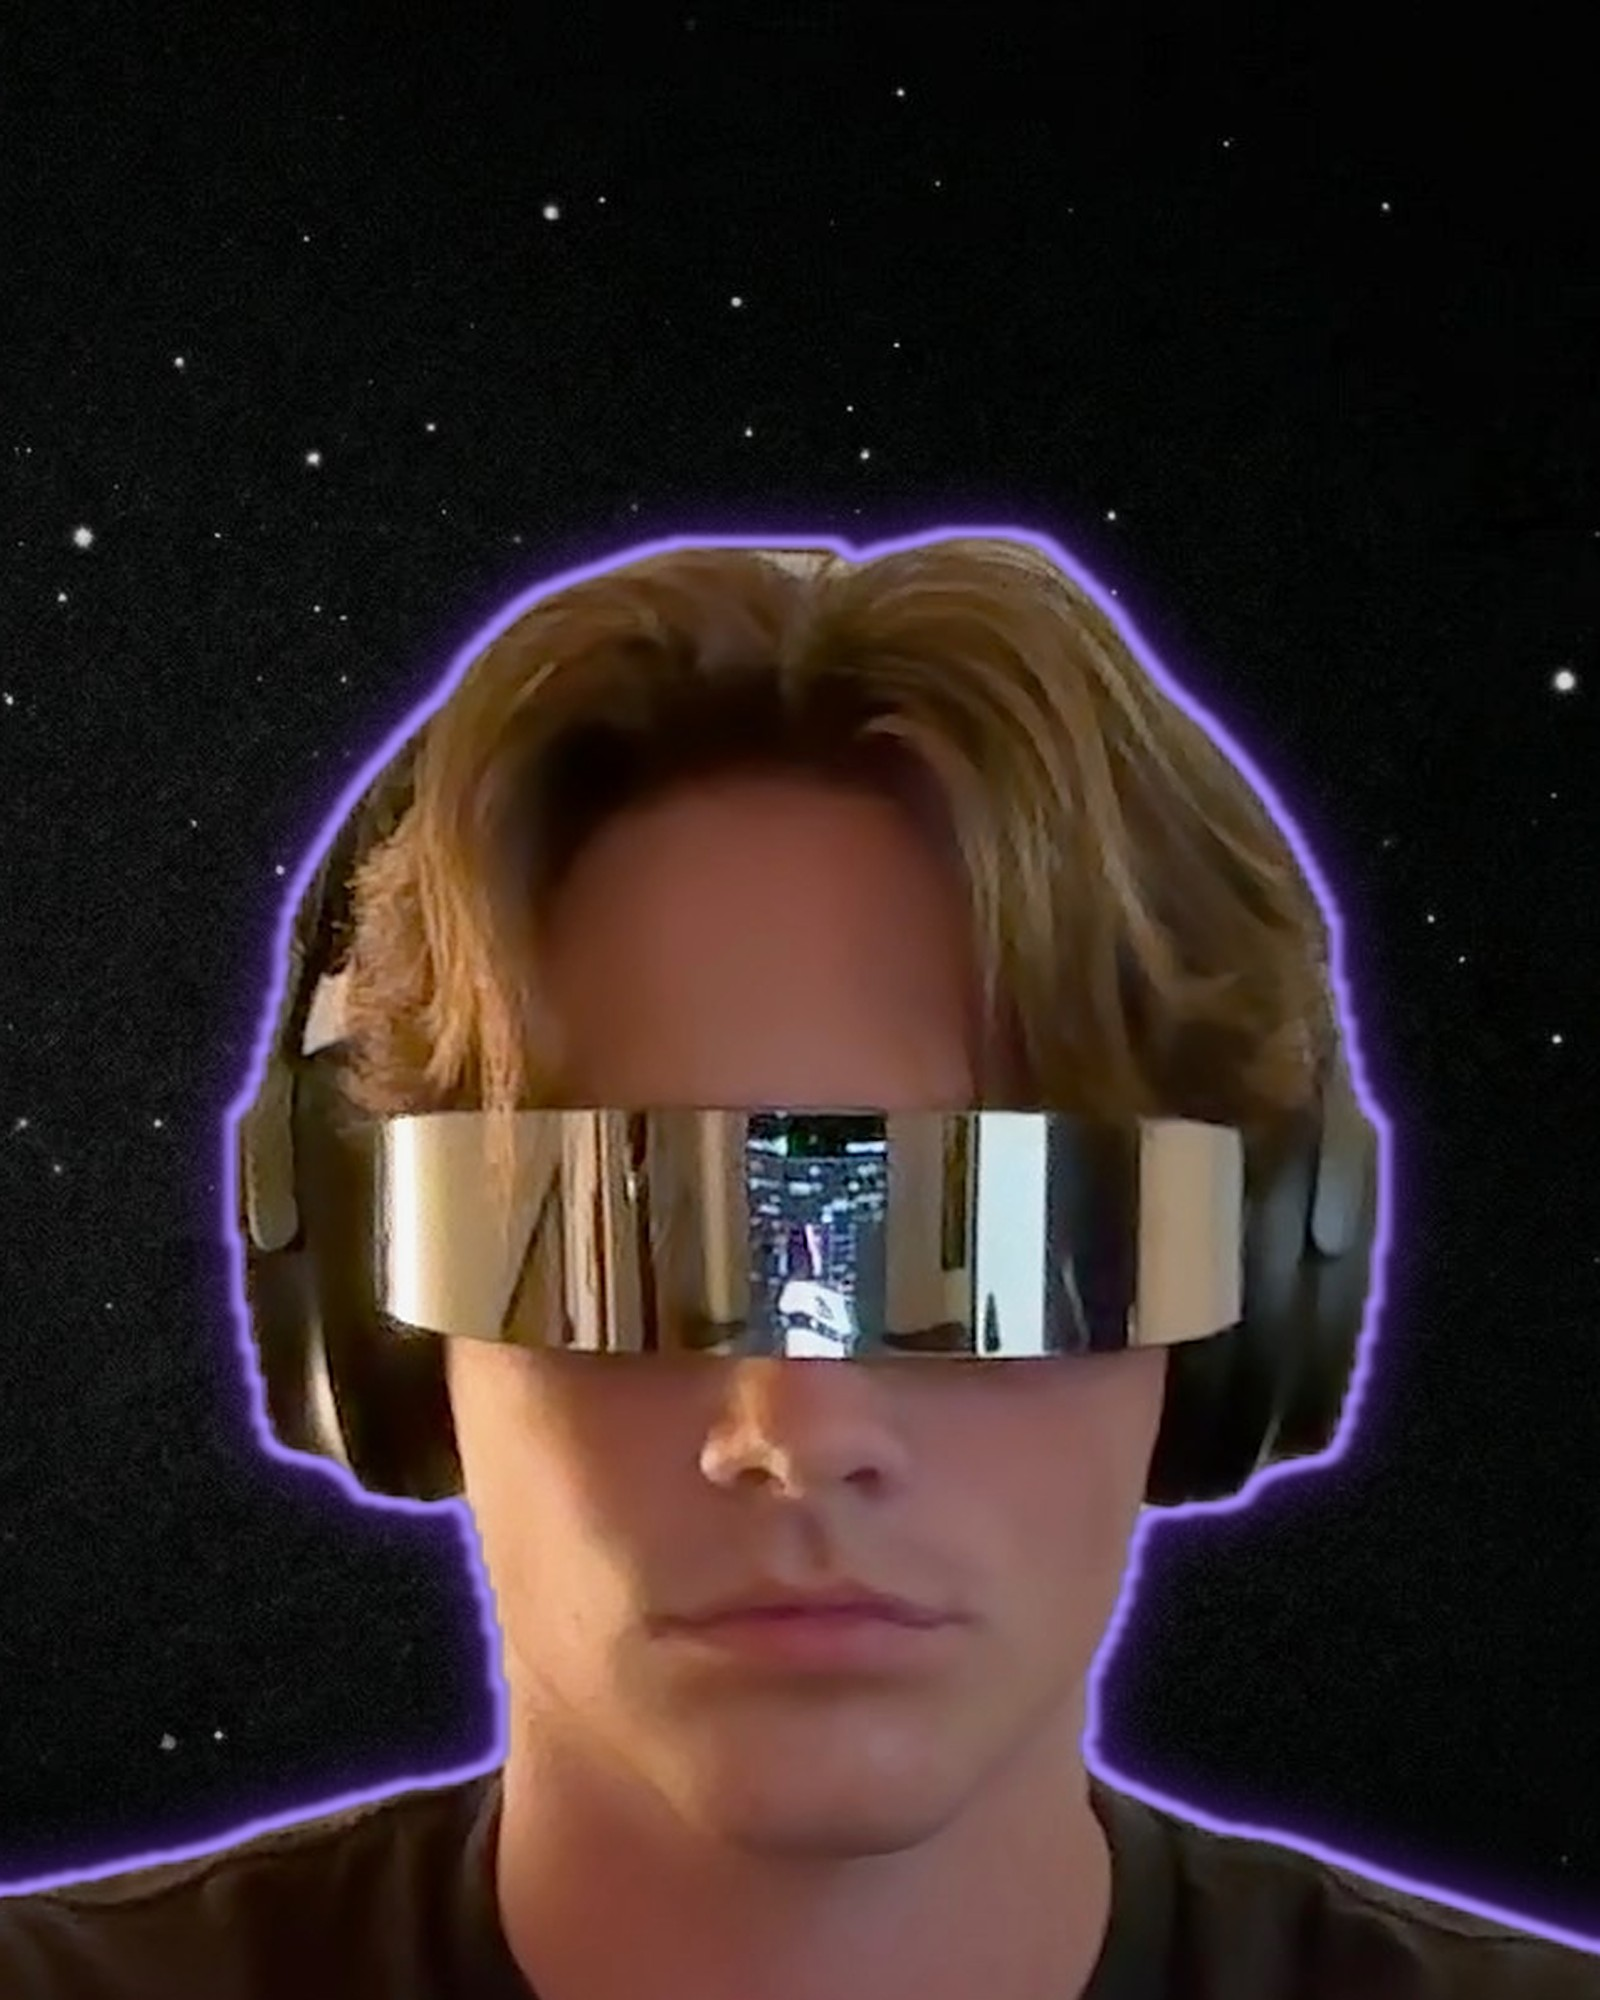
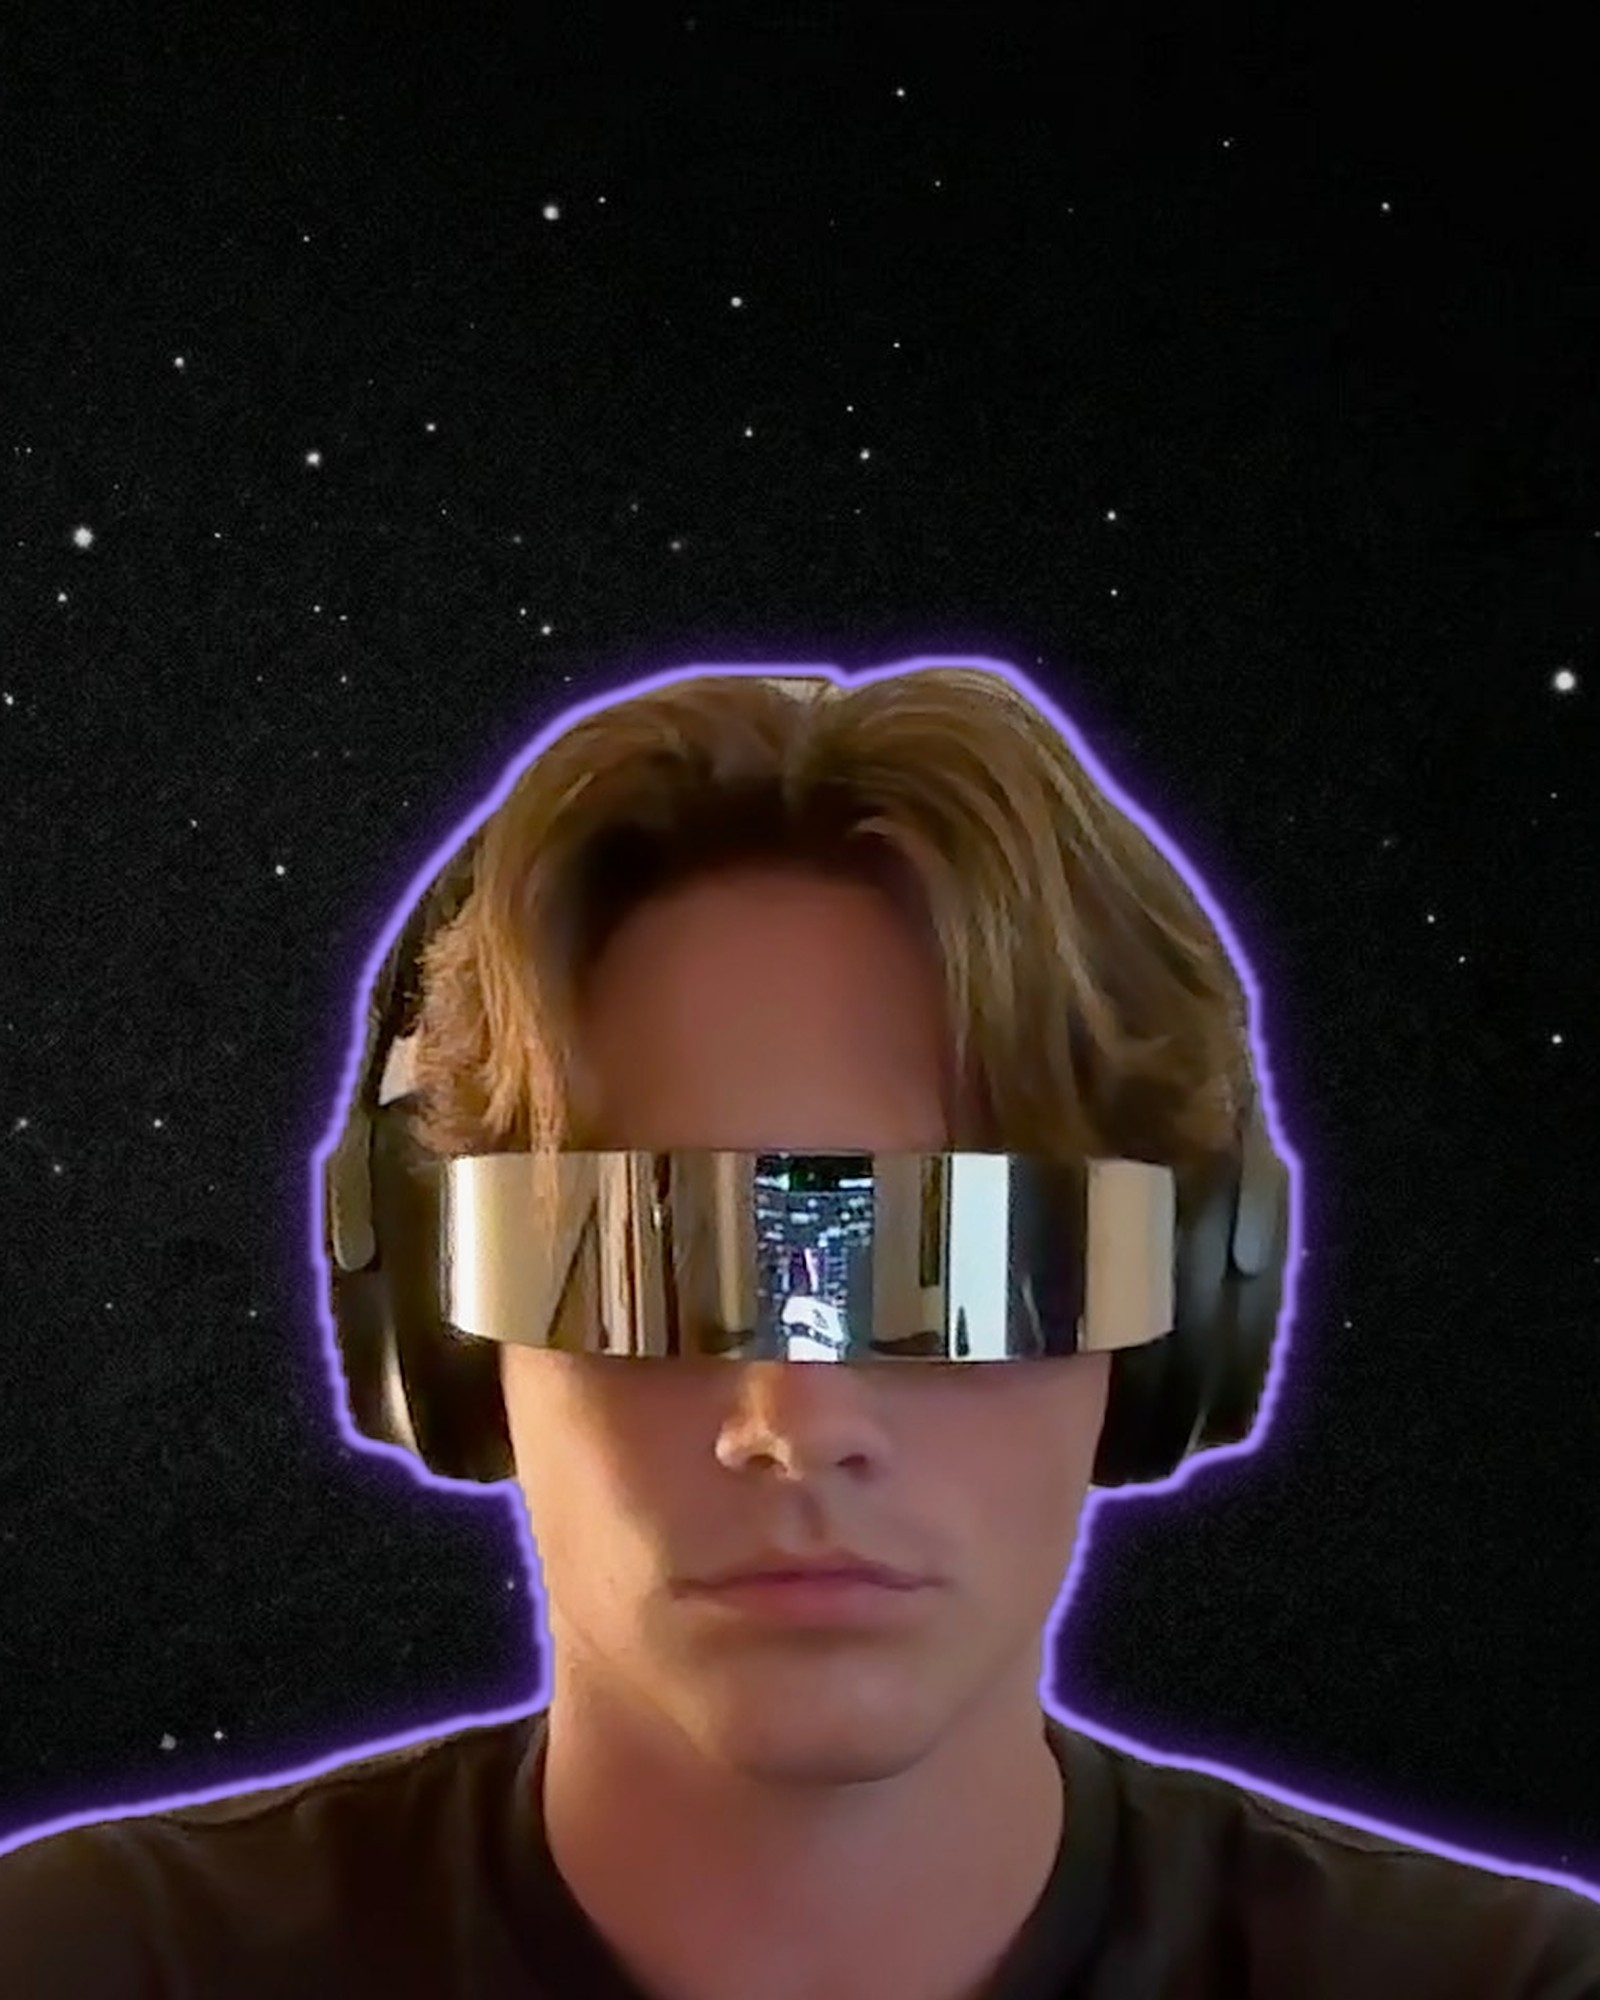
Partner Project wait list, smaller Benjiman portrait, Showcase Week wording
Claude-Session: https://claude.ai/code/session_01NvovKotwdySw8PLG56Rns3

diff --git a/components/WaitlistForm.tsx b/components/WaitlistForm.tsx
@@ -4,13 +4,23 @@ import { useState } from "react";
 import { track } from "@vercel/analytics";
 import { CONTACT } from "@/content/site";
 
-// Revolutionary Cohort 2 waitlist. Sends through the API when mail is
+// Waitlist signup, reusable per list. Sends through the API when mail is
 // configured; otherwise opens a prefilled email so no signup is lost.
 
 const field =
   "w-full rounded-md border border-dust/30 bg-soot/60 px-4 py-3 text-starlight placeholder:text-dust/60 focus:border-ember focus:outline-none";
 
-export default function WaitlistForm() {
+export default function WaitlistForm({
+  list = "Revolutionary Cohort 2",
+  label = "Cohort 2 waitlist",
+  button = "Join the Cohort 2 Waitlist",
+  doneNote = "When Cohort 2 starts forming, you will be one of the first to hear about it.",
+}: {
+  list?: string;
+  label?: string;
+  button?: string;
+  doneNote?: string;
+}) {
   const [status, setStatus] = useState<"idle" | "sending" | "done" | "error">(
     "idle",
   );
@@ -34,7 +44,7 @@ export default function WaitlistForm() {
       const res = await fetch("/api/waitlist", {
         method: "POST",
         headers: { "Content-Type": "application/json" },
-        body: JSON.stringify(form),
+        body: JSON.stringify({ ...form, list }),
       });
       const data = await res.json();
       if (!res.ok) {
@@ -45,7 +55,7 @@ export default function WaitlistForm() {
       track("waitlist_signup");
       if (!data.sent) {
         window.location.href = `mailto:${CONTACT.primaryEmail}?subject=${encodeURIComponent(
-          `Cohort 2 waitlist: ${form.name}`,
+          `${list} waitlist: ${form.name}`,
         )}&body=${encodeURIComponent(data.body)}`;
       }
       setStatus("done");
@@ -60,8 +70,7 @@ export default function WaitlistForm() {
       <div className="rounded-lg border border-ember/40 bg-soot/50 p-8 text-center">
         <p className="font-display text-2xl font-bold">You are on the list.</p>
         <p className="mx-auto mt-3 max-w-md text-sm text-starlight/75">
-          When Cohort 2 starts forming, you will be one of the first to hear
-          about it.
+          {doneNote}
         </p>
       </div>
     );
@@ -72,7 +81,7 @@ export default function WaitlistForm() {
       onSubmit={submit}
       className="mx-auto max-w-md rounded-lg border border-dust/25 bg-night/50 p-6 text-left sm:p-8"
     >
-      <p className="meta-label text-ember">Cohort 2 waitlist</p>
+      <p className="meta-label text-ember">{label}</p>
       <div className="mt-5 space-y-4">
         <div>
           <label htmlFor="wl-name" className="meta-label mb-2 block">
@@ -138,7 +147,7 @@ export default function WaitlistForm() {
         disabled={status === "sending"}
         className="mt-6 w-full bg-ember px-7 py-3.5 font-meta text-xs font-bold uppercase tracking-[0.14em] text-night transition-colors hover:bg-starlight disabled:opacity-50"
       >
-        {status === "sending" ? "Joining…" : "Join the Cohort 2 Waitlist"}
+        {status === "sending" ? "Joining…" : button}
       </button>
     </form>
   );

diff --git a/app/partner-projects/page.tsx b/app/partner-projects/page.tsx
@@ -8,6 +8,7 @@ import Kicker from "@/components/Kicker";
 import MediaSlot from "@/components/MediaSlot";
 import Reveal from "@/components/Reveal";
 import VideoBlock from "@/components/VideoBlock";
+import WaitlistForm from "@/components/WaitlistForm";
 import { MISSIONS, MISSIONS_INDEX } from "@/content/missions";
 import { PARTNER } from "@/content/partner";
 import { CONTACT } from "@/content/site";
@@ -181,7 +182,7 @@ export default function PartnerProjectsPage() {
         </div>
       </section>
 
-      {/* Closing CTA */}
+      {/* Closing CTA + wait list */}
       <section className="mx-auto max-w-7xl px-5 py-28 text-center sm:px-8 sm:py-36">
         <Reveal>
           <Image
@@ -191,20 +192,29 @@ export default function PartnerProjectsPage() {
             height={44}
             className="vhs-glow mx-auto"
           />
-          <h2 className="mx-auto mt-8 max-w-2xl font-display text-4xl font-bold sm:text-5xl">
+          <p className="meta-label mt-8 text-ember">{PARTNER.closing.kicker}</p>
+          <h2 className="mx-auto mt-6 max-w-2xl font-display text-4xl font-bold sm:text-5xl">
             {PARTNER.closing.heading}
           </h2>
           <p className="mx-auto mt-6 max-w-xl text-starlight/75">
             {PARTNER.closing.body}
           </p>
           <div className="mt-10 flex flex-wrap justify-center gap-4">
-            <Cta href="/apply">Start an application</Cta>
+            <Cta href="/apply">Start an Application</Cta>
             <Cta href={CONTACT.bookingUrl} variant="ghost">
               {PARTNER.closing.bookCta}
             </Cta>
             <Cta href={`mailto:${CONTACT.primaryEmail}`} variant="ghost">
               {PARTNER.closing.emailCta}
             </Cta>
+          </div>
+          <div className="mt-14">
+            <WaitlistForm
+              list="Partner Project"
+              label="Partner Project Wait List"
+              button="Join the Partner Project Wait List"
+              doneNote="When the next Partner Project starts forming, you will be one of the first to hear about it."
+            />
           </div>
         </Reveal>
       </section>

diff --git a/app/api/waitlist/route.ts b/app/api/waitlist/route.ts
@@ -12,7 +12,7 @@ export async function POST(request: Request) {
   // Honeypot: real people never fill this field.
   if (body.website) return NextResponse.json({ sent: true });
 
-  const { name, email, handle } = body;
+  const { name, email, handle, list } = body;
   if (!name?.trim() || !email?.includes("@")) {
     return NextResponse.json(
       { error: "Name and a valid email are required." },
@@ -20,8 +20,9 @@ export async function POST(request: Request) {
     );
   }
 
+  const listName = list?.trim() || "Revolutionary Cohort 2";
   const text = [
-    `Revolutionary Cohort 2 waitlist signup`,
+    `${listName} waitlist signup`,
     ``,
     `Name: ${name.trim()}`,
     `Email: ${email.trim()}`,
@@ -29,7 +30,7 @@ export async function POST(request: Request) {
   ].join("\n");
 
   const sent = await sendMail({
-    subject: `Cohort 2 waitlist: ${name.trim()}`,
+    subject: `${listName} waitlist: ${name.trim()}`,
     text,
     replyTo: email.trim(),
   });

diff --git a/content/partner.ts b/content/partner.ts
@@ -49,9 +49,10 @@ export const PARTNER = {
     ],
   },
   closing: {
+    kicker: "Currently Invite Only",
     heading: "Bring us your God dream.",
-    body: "A call is not a commitment. It is a place to give your vision a chance at becoming reality.",
-    bookCta: "Book a call",
-    emailCta: "Email us",
+    body: "A call is not a commitment. It is a place to give your vision a chance at becoming reality. Partner Projects are currently invite only, and the wait list is where the next one begins.",
+    bookCta: "Book a Call",
+    emailCta: "Email Us",
   },
 };

diff --git a/content/revolutionary.ts b/content/revolutionary.ts
@@ -49,7 +49,7 @@ export const REVOLUTIONARY = {
       },
       {
         title: "Showcase Week",
-        body: "One to three months after the cohort, creators gather again in person to premiere the gospel art the weekend set in motion, celebrating it together and sharing it in front of their audiences.",
+        body: "One to three months after the cohort, creators are given an opportunity to gather again in person to premiere the gospel art the weekend set in motion, celebrating it together and sharing it in front of their audiences.",
       },
     ],
   },
